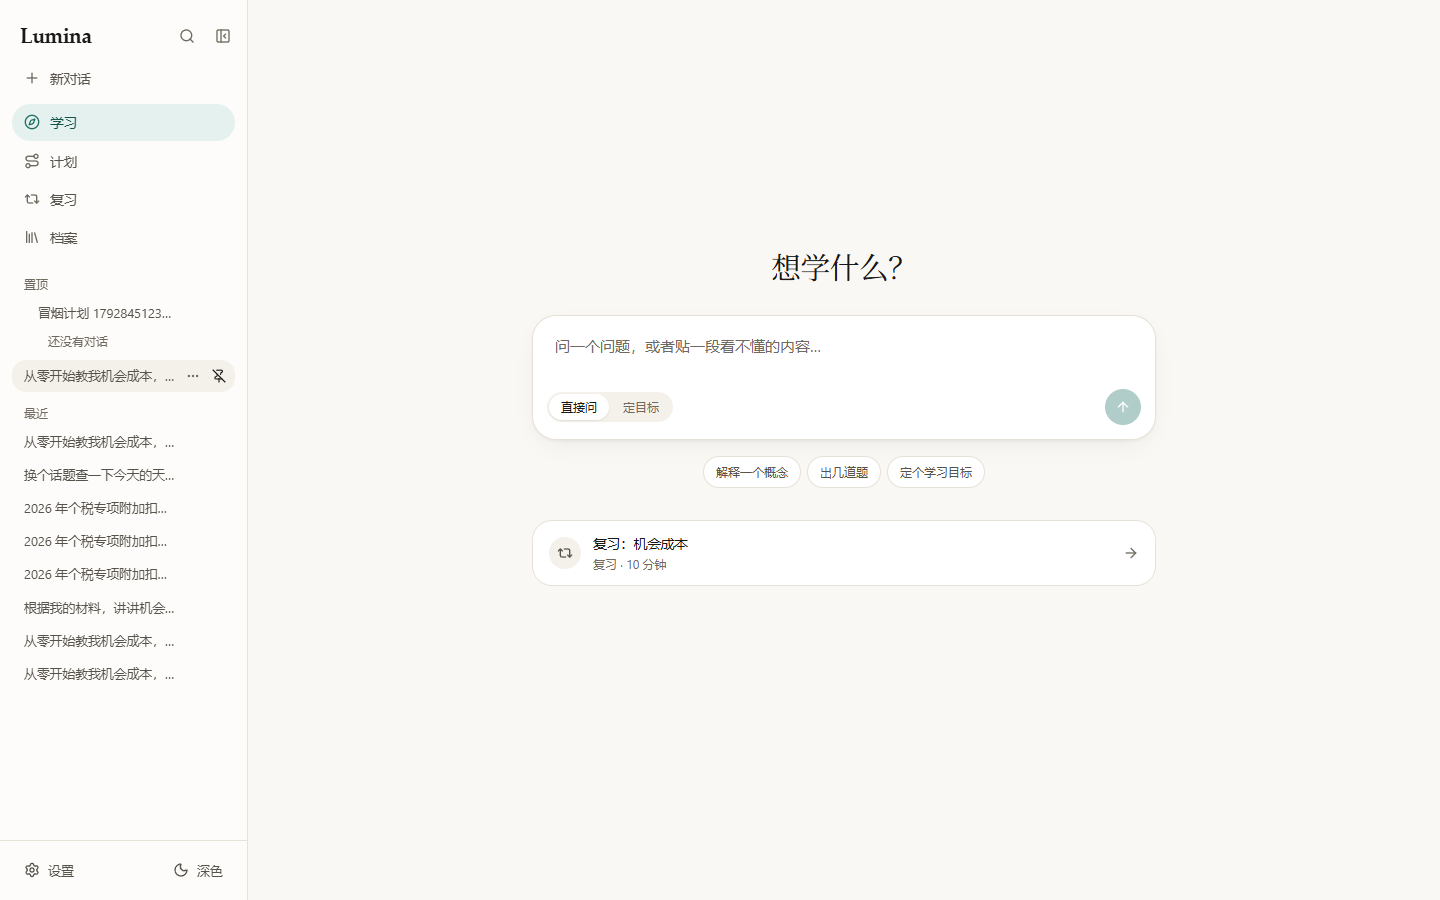
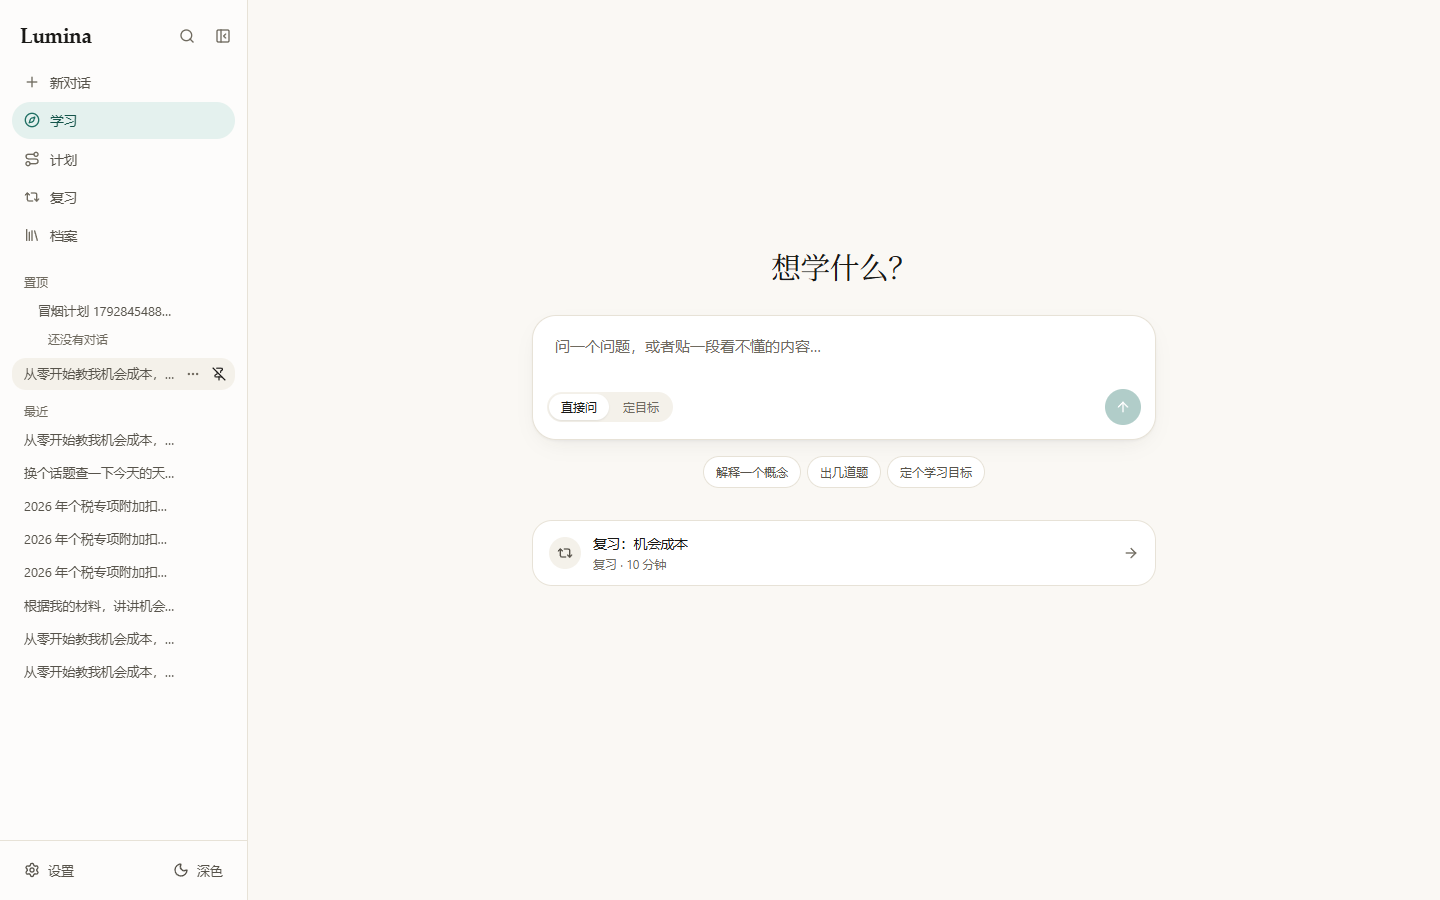
fix(侧栏): 新对话和导航项之间用同一套间距
新对话之前单独放在 pb-1 容器里，导航列表又带 mt-1，两段间距叠成 8px，
比导航项之间的 gap-0.5（2px）大。现在新对话、折叠态的搜索、四个导航项
都放进同一列 flex flex-col gap-0.5，去掉各自的垂直内外边距，间距统一。

验证：tsc 0；build 通过（BUILD_ID 09rwjgM0S5K136c5eFmu0）并重启 3210；
浏览器总览 92/92；侧栏专项 37/37（新增：新对话与下面导航项的间距一致）；
冒烟 83/83；设置专项 45/45；单测 183/183

Changed region(s): [[0.0, 0.3422, 0.1562, 0.7778], [0.0, 0.0622, 0.0625, 0.1867], [0.0312, 0.2489, 0.0625, 0.28]]

diff --git a/src/components/layout/AppShell.tsx b/src/components/layout/AppShell.tsx
@@ -163,8 +163,8 @@ export default function AppShell({ children }: { children: React.ReactNode }) {
         )}
       </div>
 
-      <div className={cx("pb-1", expanded ? "px-3" : "px-2")}>
-        {/* 和下面的导航项同一套样式：同样的圆角、内边距、悬停底色 */}
+      {/* 新对话、折叠态的搜索、四个导航项在同一列里，间距统一为 gap-0.5 */}
+      <div className={cx("mt-1 flex flex-col gap-0.5", expanded ? "px-3" : "px-2")}>
         <Link
           href="/"
           title="新对话"
@@ -176,10 +176,8 @@ export default function AppShell({ children }: { children: React.ReactNode }) {
           <Plus className="size-4 text-ink3" />
           {expanded ? <span className="text-[13.5px]">新对话</span> : <span className="sr-only">新对话</span>}
         </Link>
-      </div>
 
-      {expanded ? null : (
-        <div className="px-3 pb-1">
+        {expanded ? null : (
           <button
             type="button"
             onClick={() => setSearchOpen(true)}
@@ -189,37 +187,37 @@ export default function AppShell({ children }: { children: React.ReactNode }) {
           >
             <Search className="size-4 text-ink3" />
           </button>
-        </div>
-      )}
+        )}
 
-      <nav className={cx("mt-1 flex flex-col gap-0.5", expanded ? "px-3" : "px-2")}>
-        {NAV.map((item) => {
-          const active = isActive(item.href);
-          const Icon = item.icon;
-          return (
-            <Link
-              key={item.href}
-              href={item.href}
-              aria-current={active ? "page" : undefined}
-              title={item.label}
-              className={cx(
-                "flex items-center rounded-full transition-colors",
-                expanded ? "gap-2.5 px-3 py-2" : "h-10 justify-center",
-                active
-                  ? "bg-accentsoft font-medium text-accentink"
-                  : "text-ink2 hover:bg-panel2 hover:text-ink",
-              )}
-            >
-              <Icon className={cx("size-4", active ? "text-accent" : "text-ink3")} />
-              {expanded ? (
-                <span className="text-[13.5px]">{item.label}</span>
-              ) : (
-                <span className="sr-only">{item.label}</span>
-              )}
-            </Link>
-          );
-        })}
-      </nav>
+        <nav className="flex flex-col gap-0.5">
+          {NAV.map((item) => {
+            const active = isActive(item.href);
+            const Icon = item.icon;
+            return (
+              <Link
+                key={item.href}
+                href={item.href}
+                aria-current={active ? "page" : undefined}
+                title={item.label}
+                className={cx(
+                  "flex items-center rounded-full transition-colors",
+                  expanded ? "gap-2.5 px-3 py-2" : "h-10 justify-center",
+                  active
+                    ? "bg-accentsoft font-medium text-accentink"
+                    : "text-ink2 hover:bg-panel2 hover:text-ink",
+                )}
+              >
+                <Icon className={cx("size-4", active ? "text-accent" : "text-ink3")} />
+                {expanded ? (
+                  <span className="text-[13.5px]">{item.label}</span>
+                ) : (
+                  <span className="sr-only">{item.label}</span>
+                )}
+              </Link>
+            );
+          })}
+        </nav>
+      </div>
 
       {expanded ? (
         <div className="mt-3 min-h-0 flex-1 overflow-y-auto px-3 pb-2 no-scrollbar">

diff --git a/docs/AUDIT_2026-10-24.md b/docs/AUDIT_2026-10-24.md
@@ -1023,3 +1023,26 @@ node scripts/audit/repro.cjs
 | 设置专项 | **45/45** |
 | 单元/集成 | **183/183** |
 | 截图 | 已重拍 `sidebar-search.png`、`sidebar-sections.png`、`sidebar-row-actions.png`、`sidebar-session-menu.png`、`sidebar-plan-menu.png`、`sidebar-pinned.png`、`sidebar-collapsed.png` |
+
+---
+
+## 21. 侧栏间距对齐：新对话和导航项之间用同一套间距
+
+反馈："那个新对话的和下面的间隙和其他的不一样大。"
+
+原因：新对话最初是强调按钮，单独放在一个有 `pb-1` 的容器里，导航列表又带 `mt-1`，两者叠出 8px；导航项之间只有 `gap-0.5`（2px）。
+
+改法：新对话、折叠态的搜索按钮、四个导航项放进同一列 `flex flex-col gap-0.5`，去掉各自的垂直内外边距，间距统一成 2px。
+
+### 21.1 验证
+
+| 项目 | 结果 |
+|---|---|
+| `tsc --noEmit` | 0 错误 |
+| `next build` | 通过（`BUILD_ID 09rwjgM0S5K136c5eFmu0`），3210 已重启，health 200 |
+| 浏览器总览 | **92/92** |
+| 侧栏专项 | **37/37**（新增：新对话与下面导航项的间距一致，实测两段间距相同） |
+| API 冒烟 | **83/83** |
+| 设置专项 | **45/45** |
+| 单元/集成 | **183/183** |
+| 截图 | 已重拍侧栏系列截图 |
